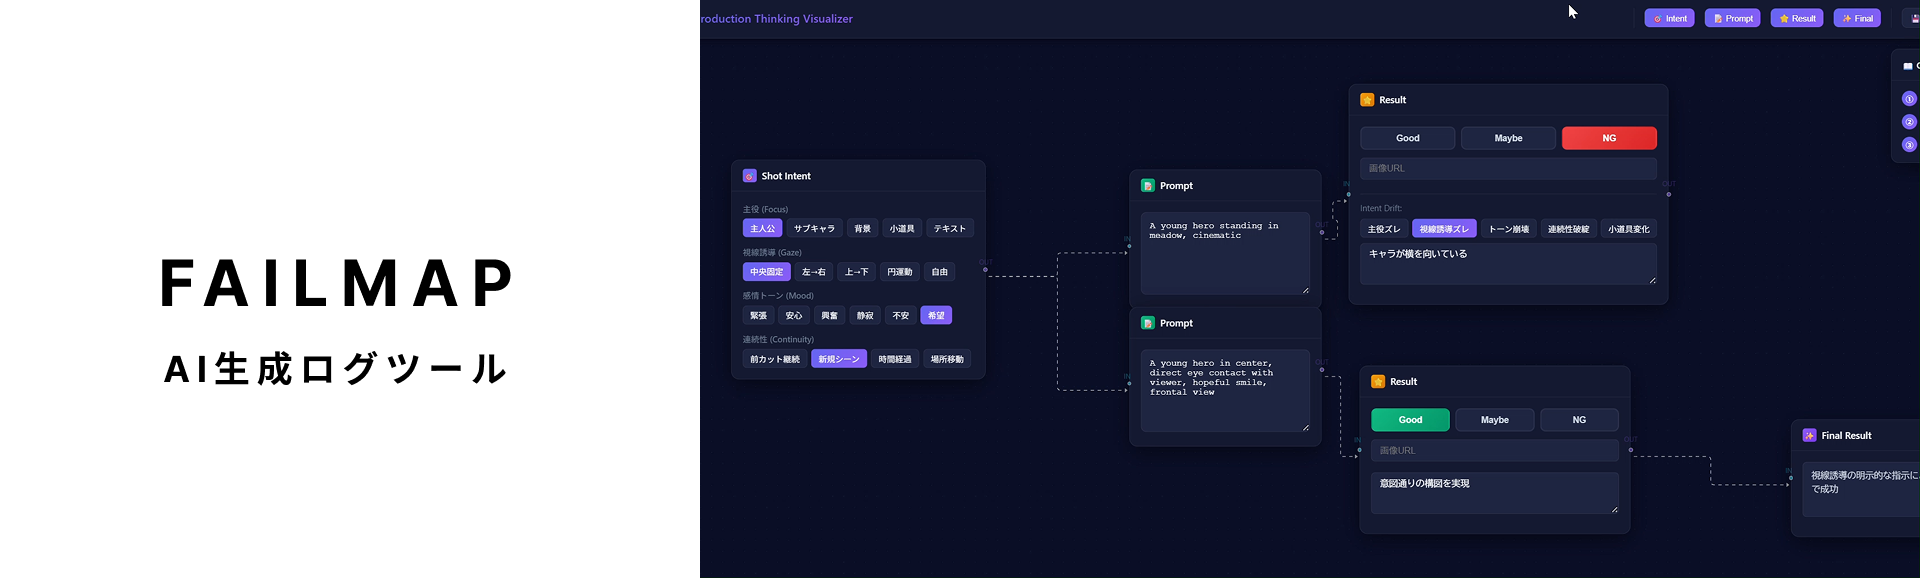
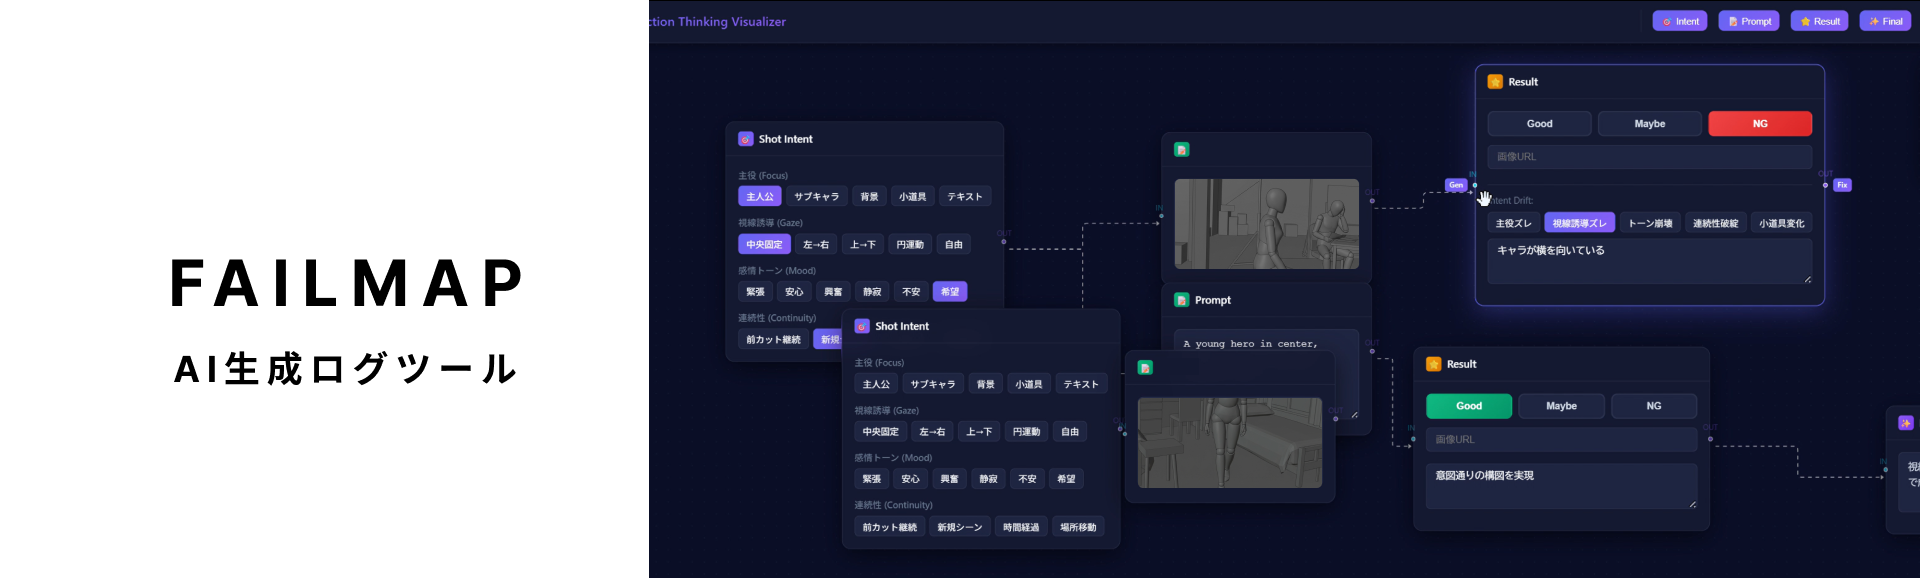
変更されたファイルが提供されていないため、コミットメッセージを生成できません。

diff --git a/data/page-main.js b/data/page-main.js
@@ -17,17 +17,17 @@ const PAGE = {
             name: "外川 蓮 / TOGAWA REN",
             affiliation: "京都精華大学 メディア表現学部 イメージ表現専攻 2年",
             headline: [
-                "AIを制作フローに組み込み、",
-                "再現可能な形でアウトプットを作る。"
+                "新しい技術を取り入れながら",
+                "形にしていくクリエイティブが好きです。"
             ],
             items: [
                 {
                     title: "できること",
-                    body: "AI生成からAfter Effectsでの仕上げまで、一貫した動画制作。"
+                    body: "After Effectsを中心に、企画から仕上げまで一貫したコンテンツ制作を行っています。"
                 },
                 {
                     title: "大切にしていること",
-                    body: "制作を仕組みに落とし込み、安定して回せる形にすること。"
+                    body: "制作を仕組みに落とし込み、AIも活用しながら安定して回せる形にすること。"
                 },
                 {
                     title: "興味・関心",
@@ -35,7 +35,7 @@ const PAGE = {
                 },
                 {
                     title: "趣味",
-                    body: "ドラム / チワワ"
+                    body: "ドラム / DTM / チワワ"
                 },
                 {
                     title: "連絡先",
@@ -115,6 +115,14 @@ const PAGE = {
             sub: "制作実例",
             lead: "AIをどう使うかで、制作の構造は大きく変わる。\n以下では、異なる2つのアプローチを実例で示す。",
             usageImg: "assets/cases/cases_ai_usage_1920x1080.png"
+        },
+
+        /* ----- 見方テキスト（インフォグラフィック → Case01 の導線） ----- */
+        {
+            type: "content-bridge",
+            id: "cases-guide",
+            text: "AIの使い方によって、制作の進め方は大きく変わります。\n以下では、それぞれのアプローチを実際の制作事例で示します。",
+            guideLabel: "見方"
         },
 
         /* ----- Case 01: 就活コミュニティ（メインケース） ----- */
@@ -295,7 +303,7 @@ const PAGE = {
             // ⑥ FAILMAP に1行説明追加
             failmap: {
                 title: "+@ ノウハウの蓄積（自作ツール:FAILMAP）",
-                description: "失敗パターンを蓄積し、再現性を高める",
+                description: "AI生成はブラックボックス化しやすいからこそ、自作ツールを使って失敗パターンを蓄積し、再現性を高めています",
                 halfImage: "assets/cases/case01/case01_failmap.png"
             },
 
@@ -397,14 +405,14 @@ const PAGE = {
                 {
                     id: "video",
                     title: "Video / Motion",
-                    policy: "テンポとグラフィックの気持ちよさを軸に、視覚的に心地よい映像体験を設計しています。",
+                    policy: "テンポとグラフィックの気持ちよさを軸に、視覚的に心地よい映像体験を意識しています。",
                     items: [
-                        { type: "video", src: "assets/other/video/OTHER_VIDEO_01.mp4", label: "VIDEO_01（OTHER_VIDEO_01.mp4）", caption: { title: "Video 01", body: "モーショングラフィックス" } },
-                        { type: "video", src: "assets/other/video/OTHER_VIDEO_02.mp4", label: "VIDEO_02（OTHER_VIDEO_02.mp4）", caption: { title: "Video 02", body: "タイポグラフィ演出" } },
-                        { type: "video", src: "assets/other/video/OTHER_VIDEO_03.mp4", label: "VIDEO_03（OTHER_VIDEO_03.mp4）", caption: { title: "Video 03", body: "プロモーション映像" } },
-                        { type: "video", src: "assets/other/video/OTHER_VIDEO_04.mp4", label: "VIDEO_04（OTHER_VIDEO_04.mp4）", caption: { title: "Video 04", body: "イベント映像" } },
-                        { type: "video", src: "assets/other/video/OTHER_VIDEO_05.mp4", label: "VIDEO_05（OTHER_VIDEO_05.mp4）", caption: { title: "Video 05", body: "ショートムービー" } },
-                        { type: "video", src: "assets/other/video/OTHER_VIDEO_06.mp4", label: "VIDEO_06（OTHER_VIDEO_06.mp4）", caption: { title: "Video 06", body: "エフェクト実験" } }
+                        { type: "video", src: "assets/other/video/OTHER_VIDEO_01.mp4", label: "VIDEO_01（OTHER_VIDEO_01.mp4）", caption: { title: "ミュージックビデオ①", body: "3DモーションとAfter Effectsを組み合わせた映像制作" } },
+                        { type: "video", src: "assets/other/video/OTHER_VIDEO_02.mp4", label: "VIDEO_02（OTHER_VIDEO_02.mp4）", caption: { title: "ミュージックビデオ②", body: "After Effectsを用いた自主制作MV" } },
+                        { type: "video", src: "assets/other/video/OTHER_VIDEO_03.mp4", label: "VIDEO_03（OTHER_VIDEO_03.mp4）", caption: { title: "VFX練習", body: "実写とCGを組み合わせたメタ的な映像表現" } },
+                        { type: "video", src: "assets/other/video/OTHER_VIDEO_04.mp4", label: "VIDEO_04（OTHER_VIDEO_04.mp4）", caption: { title: "配信アイキャッチ映像", body: "配信時の導入として制作したオープニングムービー" } },
+                        { type: "video", src: "assets/other/video/OTHER_VIDEO_05.mp4", label: "VIDEO_05（OTHER_VIDEO_05.mp4）", caption: { title: "セルルックCG映像", body: "BlenderとAfter Effectsを用いた3DCG映像" } },
+                        { type: "video", src: "assets/other/video/OTHER_VIDEO_06.mp4", label: "VIDEO_06（OTHER_VIDEO_06.mp4）", caption: { title: "ゲーム攻略動画", body: "YouTubeで運営しているゲーム攻略動画の編集" } }
                     ]
                 },
                 {
@@ -412,38 +420,46 @@ const PAGE = {
                     title: "UI / Interface",
                     policy: "ユーザーの行動を起点に、迷わず使える構造と新しさのバランスを設計しています。",
                     items: [
-                        { type: "image", src: "assets/other/ui/OTHER_UI_01.png", label: "UI_01（OTHER_UI_01.png）", caption: { title: "UI 01", body: "ダッシュボードUI" } },
-                        { type: "image", src: "assets/other/ui/OTHER_UI_02.png", label: "UI_02（OTHER_UI_02.png）", caption: { title: "UI 02", body: "モバイルアプリUI" } },
-                        { type: "image", src: "assets/other/ui/OTHER_UI_03.png", label: "UI_03（OTHER_UI_03.png）", caption: { title: "UI 03", body: "ランディングページ" } },
-                        { type: "image", src: "assets/other/ui/OTHER_UI_04.png", label: "UI_04（OTHER_UI_04.png）", caption: { title: "UI 04", body: "管理画面プロトタイプ" } },
-                        { type: "image", src: "assets/other/ui/OTHER_UI_05.png", label: "UI_05（OTHER_UI_05.png）", caption: { title: "UI 05", body: "デザインシステム設計" } },
-                        { type: "image", src: "assets/other/ui/OTHER_UI_06.png", label: "UI_06（OTHER_UI_06.png）", caption: { title: "UI 06", body: "コンポーネントライブラリ" } }
+                        { type: "image", src: "assets/other/ui/OTHER_UI_01.png", label: "UI_01（OTHER_UI_01.png）", caption: { title: "オンラインセッションアプリ", body: "" } },
+                        { type: "image", src: "assets/other/ui/OTHER_UI_02.png", label: "UI_02（OTHER_UI_02.png）", caption: { title: "家計簿アプリ", body: "" } },
+                        { type: "image", src: "assets/other/ui/OTHER_UI_03.png", label: "UI_03（OTHER_UI_03.png）", caption: { title: "オーディオ再生インターフェース", body: "" } },
+                        { type: "image", src: "assets/other/ui/OTHER_UI_04.png", label: "UI_04（OTHER_UI_04.png）", caption: { title: "オンラインセッションアプリ｜設計資料", body: "企画書・画面フロー設計を作成" } },
+                        { type: "image", src: "assets/other/ui/OTHER_UI_05.png", label: "UI_05（OTHER_UI_05.png）", caption: { title: "家計簿アプリ｜設計資料", body: "サービス設計とUIフローを整理" } },
+                        { type: "image", src: "assets/other/ui/OTHER_UI_06.png", label: "UI_06（OTHER_UI_06.png）", caption: { title: "オーディオUI｜設計資料", body: "操作導線と機能構造を設計" } }
                     ]
                 },
                 {
                     id: "graphic",
                     title: "Graphic Design",
-                    policy: "余白と視線誘導をコントロールし、情報が自然に伝わるビジュアルを意識しています。",
+                    policy: "余白と視線誘導をコントロールし、情報が自然に伝わるビジュアルを模索しています。",
                     items: [
-                        { type: "image", src: "assets/other/graphic/OTHER_GRAPHIC_01.png", label: "GRAPHIC_01", caption: { title: "Graphic 01", body: "タイポグラフィポスター" } },
-                        { type: "image", src: "assets/other/graphic/OTHER_GRAPHIC_02.png", label: "GRAPHIC_02", caption: { title: "Graphic 02", body: "インフォグラフィック設計" } },
-                        { type: "image", src: "assets/other/graphic/OTHER_GRAPHIC_03.png", label: "GRAPHIC_03", caption: { title: "Graphic 03", body: "ビジュアルアイデンティティ" } },
-                        { type: "image", src: "assets/other/graphic/OTHER_GRAPHIC_04.png", label: "GRAPHIC_04", caption: { title: "Graphic 04", body: "ブランドブックレイアウト" } },
-                        { type: "image", src: "assets/other/graphic/OTHER_GRAPHIC_05.png", label: "GRAPHIC_05", caption: { title: "Graphic 05", body: "展示会キービジュアル" } },
-                        { type: "image", src: "assets/other/graphic/OTHER_GRAPHIC_06.png", label: "GRAPHIC_06", caption: { title: "Graphic 06", body: "広告バナー展開" } }
+                        { type: "image", src: "assets/other/graphic/OTHER_GRAPHIC_01.png", label: "GRAPHIC_01", caption: { title: "MV用タイポグラフィ", body: "ミュージックビデオ内で使用するロゴとして設計したタイポグラフィ。" } },
+                        { type: "image", src: "assets/other/graphic/OTHER_GRAPHIC_02.png", label: "GRAPHIC_02", caption: { title: "楽曲モチーフのグラフィック", body: "楽曲の世界観をもとに、ビジュアルへ落とし込んだグラフィック制作課題。" } },
+                        { type: "image", src: "assets/other/graphic/OTHER_GRAPHIC_03.png", label: "GRAPHIC_03", caption: { title: "配信アイキャッチデザイン", body: "配信時の視認性と印象を意識して設計したアイキャッチビジュアル。" } },
+                        { type: "image", src: "assets/other/graphic/OTHER_GRAPHIC_04.png", label: "GRAPHIC_04", caption: { title: "アプリモチーフデザイン", body: "アプリケーションのコンセプトを視覚化したモチーフデザイン。" } },
+                        { type: "image", src: "assets/other/graphic/OTHER_GRAPHIC_05.png", label: "GRAPHIC_05", caption: { title: "音の可視化グラフィック", body: "音の要素を視覚的な形に変換し、構造として表現した実験的作品。" } },
+                        { type: "image", src: "assets/other/graphic/OTHER_GRAPHIC_06.png", label: "GRAPHIC_06", caption: { title: "コラボレーショングラフィック", body: "イラストレーターと共同制作し、ビジュアルを構成したグラフィック作品。" } }
                     ]
                 },
                 {
                     id: "system",
                     title: "Apps / Systems",
-                    policy: "使われることを前提に、シンプルで再利用可能な構造設計を行っています。",
+                    policy: "Webページやアプリケーションの企画からデザイン・実装まで一貫した制作を行っています。",
                     items: [
-                        { type: "image", src: "assets/other/system/OTHER_SYS_01.png", label: "SYS_01（OTHER_SYS_01.png）", caption: { title: "System 01", body: "自動化ツール" } },
-                        { type: "image", src: "assets/other/system/OTHER_SYS_02.png", label: "SYS_02（OTHER_SYS_02.png）", caption: { title: "System 02", body: "データ管理システム" } },
-                        { type: "image", src: "assets/other/system/OTHER_SYS_03.png", label: "SYS_03（OTHER_SYS_03.png）", caption: { title: "System 03", body: "APIインテグレーション" } }
+                        { type: "image", src: "assets/other/system/OTHER_SYS_01.png", label: "SYS_01（OTHER_SYS_01.png）", caption: { title: "FAILMAP", body: "生成AIの失敗を記録・分析するツール" } },
+                        { type: "image", src: "assets/other/system/OTHER_SYS_02.png", label: "SYS_02（OTHER_SYS_02.png）", caption: { title: "LizArt", body: "クリエイター向けリファレンスアプリの遷移設計" } },
+                        { type: "image", src: "assets/other/system/OTHER_SYS_03.png", label: "SYS_03（OTHER_SYS_03.png）", caption: { title: "Webポートフォリオ", body: "AIの活用にフォーカスしたポートフォリオを新しくWebで構築" } }
                     ]
                 }
             ]
+        },
+
+        /* ----- 締めブロック（FINAL） ----- */
+        {
+            type: "content-bridge",
+            id: "closing-final",
+            guideLabel: "FINAL",
+            text: "制作を一時的なアウトプットで終わらせず、\n仕組みとして回り続ける形にしていきたいと考えています。"
         },
 
         /* ----- Contact ----- */

diff --git a/engine/style.css b/engine/style.css
@@ -530,6 +530,32 @@ strong {
     max-width: 65ch
 }
 
+/* ===== Cases 見方テキストブロック（#cases-guide） ===== */
+.bridge__guide-label {
+    font-size: 10px;
+    font-weight: 600;
+    letter-spacing: 0.12em;
+    color: var(--color-text-light);
+    text-transform: uppercase;
+    margin: 0 0 6px;
+}
+
+#cases-guide {
+    margin-top: 24px;
+    margin-bottom: 32px;
+    background: rgba(0, 0, 0, 0.015);
+    border-radius: var(--border-radius);
+    padding: 20px 24px;
+}
+
+#cases-guide .bridge__text {
+    font-size: 13px;
+    line-height: 1.7;
+    color: #555;
+    max-width: none;
+    white-space: pre-line;
+}
+
 .container {
     max-width: var(--max-width);
     margin: 0 auto;
@@ -581,10 +607,13 @@ strong {
 }
 
 .site-header__affiliation,
-.site-header__email,
-.site-header__updated {
+.site-header__email {
     font-size: var(--font-size-sm);
     color: var(--color-text-sub)
+}
+
+.site-header__updated {
+    display: none;
 }
 
 /* --- ナビ --- */
@@ -1529,21 +1558,9 @@ strong {
     transform: translateY(0);
 }
 
-/* BUILD Badge (Debug) */
+/* BUILD Badge (Debug) — 非表示 */
 .build-badge {
-    position: fixed;
-    bottom: 4px;
-    right: 4px;
-    font-size: 10px;
-    font-family: monospace;
-    color: #888;
-    background: rgba(255, 255, 255, 0.85);
-    padding: 2px 6px;
-    border-radius: 2px;
-    border: 1px solid #ddd;
-    z-index: 9999;
-    pointer-events: none;
-    line-height: 1;
+    display: none;
 }
 
 .other-works__video {
@@ -1893,4 +1910,26 @@ strong {
 .case-hero-url:hover {
     color: var(--color-accent);
     text-decoration: underline;
+}
+
+/* ===== 締めブロック（#closing-final） ===== */
+#closing-final {
+    margin-top: 56px;
+    margin-bottom: 40px;
+}
+
+#closing-final .bridge__guide-label {
+    font-size: 12px;
+    font-weight: 600;
+    letter-spacing: 0.1em;
+    color: #999;
+    margin-bottom: 8px;
+}
+
+#closing-final .bridge__text {
+    font-size: 14px;
+    line-height: 1.7;
+    color: #555;
+    max-width: none;
+    white-space: pre-line;
 }

diff --git a/engine/renderer.js b/engine/renderer.js
@@ -30,7 +30,7 @@
     if (!headerEl) return;
 
     const p = SITE.profile;
-    const updated = new Date().toISOString().slice(0, 10);
+
 
     headerEl.className = "site-header";
     headerEl.innerHTML = `<div class="container">
@@ -143,7 +143,7 @@
 
     // 自己紹介末尾の案内リンク
     var jumpHtml = `<p class="intro__jump">
-      <a class="intro__jump-link" href="#other-works">実績を見る</a>
+      <a class="intro__jump-link" href="#other-works">これまでの制作物はこちら</a>
       <span class="intro__jump-note">（スクロール）</span>
     </p>`;
 
@@ -395,6 +395,7 @@
     const headingHtml = s.heading ? `<h2 class="bridge__heading section-heading underline--major">${esc(s.heading)}</h2>` : "";
     const subHtml = s.sub ? `<p class="bridge__sub">${esc(s.sub)}</p>` : "";
     const titleHtml = s.title ? `<h3 class="bridge__title">${esc(s.title)}</h3>` : "";
+    const guideLabelHtml = s.guideLabel ? `<p class="bridge__guide-label">${esc(s.guideLabel)}</p>` : "";
     const textHtml = s.text ? `<p class="bridge__text">${nl2br(esc(s.text))}</p>` : "";
     const leadHtml = s.lead ? `<p class="section__lead">${raw(nl2br(esc(s.lead)))}</p>` : "";
 
@@ -420,6 +421,7 @@
         ${titleHtml}
         ${leadHtml}
         ${usageImgHtml}
+        ${guideLabelHtml}
         ${textHtml}
       </section>`;
   };

diff --git a/_ai_share/page-main.js b/_ai_share/page-main.js
@@ -301,7 +301,7 @@ const PAGE = {
                 {
                     id: "system",
                     title: "Apps / Systems",
-                    policy: "使われることを前提に、シンプルで再利用可能な構造設計を行っています。",
+                    policy: "Webページやアプリケーションの企画からデザイン・実装まで一貫した制作を行っています。",
                     items: [
                         { type: "image", src: "assets/other/system/OTHER_SYS_01.png", label: "SYS_01（OTHER_SYS_01.png）", caption: { title: "System 01", body: "自動化ツール" } },
                         { type: "image", src: "assets/other/system/OTHER_SYS_02.png", label: "SYS_02（OTHER_SYS_02.png）", caption: { title: "System 02", body: "データ管理システム" } },

diff --git a/index.html b/index.html
@@ -23,7 +23,7 @@
   <nav id="site-nav"></nav>
   <main id="app"></main>
   <footer id="site-footer"></footer>
-  <div id="build-badge" class="build-badge">BUILD: 20260224-03</div>
+
 
   <!-- キャッシュバスティング: SITE_VERSIONを使って動的にクエリパラメータを付与 -->
   <script>
